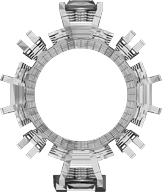
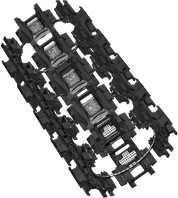
configurando o portal de salto

diff --git a/astra-conflux.html b/astra-conflux.html
@@ -103,9 +103,10 @@
   .abGear:hover svg { transform: rotate(60deg); }
   #dockHint { bottom: 70px; left: 50%; transform: translateX(-50%); display: none;
               text-align: center; font-size: 11.5px; padding: 5px 12px; }
-  #saltoBox { bottom: 104px; left: 50%; transform: translateX(-50%); display: none; padding: 6px 8px;
-              border-color: rgba(255,209,102,.5); }
-  #btnSalto { font-size: 12.5px; padding: 8px 16px; }
+  /* fica ancorado no portal, dentro do mapa, e não no rodapé da tela */
+  #saltoBox { display: none; padding: 5px 6px; border-color: rgba(255,209,102,.55);
+              background: rgba(8,16,32,.9); }
+  #btnSalto { font-size: 12.5px; padding: 7px 18px; }
   #logPanel { bottom: 78px; left: 8px; width: 244px; display: none; max-height: 128px; overflow: hidden; }
   #hint { bottom: 8px; left: 8px; font-size: 10.5px; color: #7b9ac0; max-width: 250px; }
 
@@ -1330,8 +1331,9 @@ const raioSeguro = () => STATION.r + MARGEM_SEGURA;
 
 /* O portal também é zona segura, com as mesmas regras da base: lá dentro
    ninguém pode te atacar, tirando quem você mesmo provocou. */
-const RAIO_SEGURO_PORTAL = 190;
-const PORTAL_TAM = 200;
+const RAIO_SEGURO_PORTAL = 380;   // o dobro do que era
+const PORTAL_TAM = 210;
+const PORTAL_ALT = 198 / 178;     // proporção da figura
 
 function gates() {
   const g = [];
@@ -3671,18 +3673,42 @@ function desenharPortal(g, t) {
   anelSeguro(g.x, g.y, RAIO_SEGURO_PORTAL, t, dist(G.player.x,G.player.y,g.x,g.y) < RAIO_SEGURO_PORTAL);
 
   if (spritePortal.complete && spritePortal.naturalWidth > 0) {
-    const w = PORTAL_TAM, h = w * spritePortal.naturalHeight / spritePortal.naturalWidth;
-    ctx.save(); ctx.translate(g.x, g.y); ctx.rotate(t/(carregando ? 2600 : 9000));
+    const w = PORTAL_TAM, h = w * PORTAL_ALT;
+    /* Balanço lento: ele flutua de leve e oscila um tiquinho, como se
+       estivesse solto no espaço. Dois períodos diferentes para o movimento
+       não ficar com cara de metrônomo. */
+    const sobe  = Math.sin(t/2600 + g.x) * 4.5;
+    const pende = Math.sin(t/3700 + g.x) * 0.035;
+    ctx.save();
+    ctx.translate(g.x, g.y + sobe);
+    ctx.rotate(pende);
     ctx.drawImage(spritePortal, -w/2, -h/2, w, h);
-    ctx.restore();
-    // o miolo acende, e acende mais enquanto carrega
-    const brilho = carregando ? .55 + Math.abs(Math.sin(t/120))*.35 : .18 + Math.abs(Math.sin(t/900))*.14;
-    const gr = ctx.createRadialGradient(g.x, g.y, 0, g.x, g.y, PORTAL_TAM*0.34);
+
+    /* O giro fica por conta dos anéis de luz por dentro do túnel: como a
+       figura está tombada, eles são elipses, e é o avanço da fase deles que
+       dá a sensação de a parte circular estar rodando. */
     const cor = carregando ? "255,209,102" : ok ? "138,255,216" : "255,122,122";
-    gr.addColorStop(0, `rgba(${cor},${brilho})`);
+    const ritmo = carregando ? 260 : 1500;
+    ctx.globalCompositeOperation = "lighter";
+    ctx.rotate(-0.61);                              // alinha com o eixo do túnel
+    for (let i = 0; i < 3; i++) {
+      const f = ((t/ritmo + i/3) % 1);              // 0 → 1 e recomeça
+      const rx = w*0.30 * (0.45 + f*0.55);
+      const brilho = Math.sin(f*Math.PI) * (carregando ? .85 : .42);
+      ctx.strokeStyle = `rgba(${cor},${brilho.toFixed(3)})`;
+      ctx.lineWidth = carregando ? 4 : 2.5;
+      ctx.beginPath(); ctx.ellipse(0, 0, rx, rx*0.34, 0, 0, 6.29); ctx.stroke();
+    }
+    ctx.globalCompositeOperation = "source-over";
+    ctx.restore(); ctx.lineWidth = 1;
+
+    // miolo aceso, mais forte durante a carga
+    const bl = carregando ? .55 + Math.abs(Math.sin(t/120))*.35 : .16 + Math.abs(Math.sin(t/900))*.12;
+    const gr = ctx.createRadialGradient(g.x, g.y + sobe, 0, g.x, g.y + sobe, w*0.30);
+    gr.addColorStop(0, `rgba(${cor},${bl})`);
     gr.addColorStop(1, `rgba(${cor},0)`);
     ctx.fillStyle = gr;
-    ctx.beginPath(); ctx.arc(g.x, g.y, PORTAL_TAM*0.34, 0, 6.29); ctx.fill();
+    ctx.beginPath(); ctx.arc(g.x, g.y + sobe, w*0.30, 0, 6.29); ctx.fill();
   } else {
     ctx.save(); ctx.translate(g.x, g.y); ctx.rotate(t/(carregando ? 300 : 1200));
     for (let i = 0; i < 3; i++) {
@@ -3694,21 +3720,11 @@ function desenharPortal(g, t) {
     ctx.restore(); ctx.globalAlpha = 1; ctx.lineWidth = 1;
   }
 
-  if (carregando) {                      // anel de carga do portal
-    ctx.strokeStyle = "#ffd166"; ctx.lineWidth = 5;
-    ctx.beginPath(); ctx.arc(g.x, g.y, 70, -Math.PI/2, -Math.PI/2 + k*6.283); ctx.stroke();
-    ctx.lineWidth = 1;
-    ctx.font = "700 13px system-ui"; ctx.textAlign = "center"; ctx.fillStyle = "#ffd166";
-    ctx.fillText("CARREGANDO " + ((TEMPO_SALTO - (G.tempo - G.salto.inicio))/1000).toFixed(1) + "s", g.x, g.y - 88);
-  }
-
+  // sem anel de carga e sem contagem: o salto acontece sem alarde
   ctx.font = "600 12px system-ui"; ctx.textAlign = "center";
   ctx.fillStyle = ok ? "#8affd8" : "#ff9a9a";
-  ctx.fillText(alvo.nome + (ok ? "" : " (nível " + alvo.nivel + ")"), g.x, g.y + 78);
-  if (ok && !carregando && G.portalPerto && G.portalPerto.to === g.to) {
-    ctx.fillStyle = "#ffd166";
-    ctx.fillText("use o botão Saltar ou a tecla J", g.x, g.y + 94);
-  }
+  ctx.fillText(alvo.nome + (ok ? "" : " (nível " + alvo.nivel + ")"),
+               g.x, g.y + PORTAL_TAM*PORTAL_ALT*0.5 + 16);
 }
 
 function desenharInvasao(t) {
@@ -4268,18 +4284,22 @@ function atualizarHUD() {
       ganhos.map(g => `<div class="ganhoLinha">${g.html}</div>`).join("");
   } else gpEl.style.display = "none";
 
-  // botão de salto: aparece quando você está em cima de um portal
+  /* Botão de salto: fica em cima do próprio portal, logo acima da figura,
+     e diz só "Saltar". Acompanha a câmera, então gruda no portal na tela. */
   const sbx = el("saltoBox"), bs = el("btnSalto");
   if (sbx && bs) {
-    if (G.salto) {
-      const resta = (G.salto.fim - G.tempo)/1000;
+    const g = G.portalPerto;
+    const ok = g && G.nivel >= SECTORS[g.to].nivel;
+    if (g && !G.salto) {
+      const tre = tremorAtual();
+      const sx = g.x - (G.cam.x + tre.x);
+      const sy = g.y - (G.cam.y + tre.y) - PORTAL_TAM * PORTAL_ALT * 0.5 - 18;
       sbx.style.display = "block";
-      bs.textContent = "Cancelar salto · " + Math.max(0, resta).toFixed(1) + "s";
-    } else if (G.portalPerto) {
-      const alvo = SECTORS[G.portalPerto.to];
-      const ok = G.nivel >= alvo.nivel;
-      sbx.style.display = "block";
-      bs.textContent = ok ? "Saltar para " + alvo.nome : alvo.nome + " · nível " + alvo.nivel;
+      sbx.style.left = sx + "px";
+      sbx.style.top  = sy + "px";
+      sbx.style.bottom = "auto";
+      sbx.style.transform = "translate(-50%, -100%)";
+      bs.textContent = "Saltar";
       bs.disabled = !ok;
     } else sbx.style.display = "none";
   }
